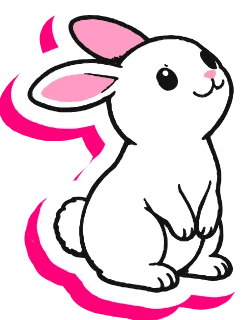
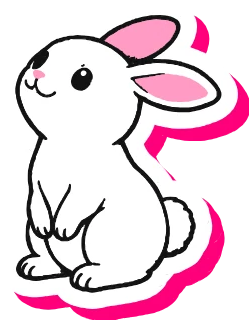
style: Mirror the footer rabbit to face left, which also turns its pink throw down-right like the rest of the site.

diff --git a/ARCHITECTURE.md b/ARCHITECTURE.md
@@ -437,8 +437,9 @@ in `wrangler.jsonc`).
 - Footer links: seven sticker tiles with Simple Icons (CC0) paths, one
   `<symbol>` per link label in `src/assets/social-icons.svg`. The footer rabbit
   is `src/assets/bunny-footer.webp` with `alt=""`, standing on the name band:
-  the Looking Up pose of a Canva sheet, traced with Potrace and
-  exported as a die-cut sticker; sources and scripts are kept outside the repo.
+  the Looking Up pose of a Canva sheet, traced with Potrace,
+  exported as a die-cut sticker and mirrored to face left, so its throw falls
+  down-right like the site's; sources and scripts are kept outside the repo.
   The footer runs JavaScript only for features
   [loaded on demand](#scripts-loaded-on-demand).
 
